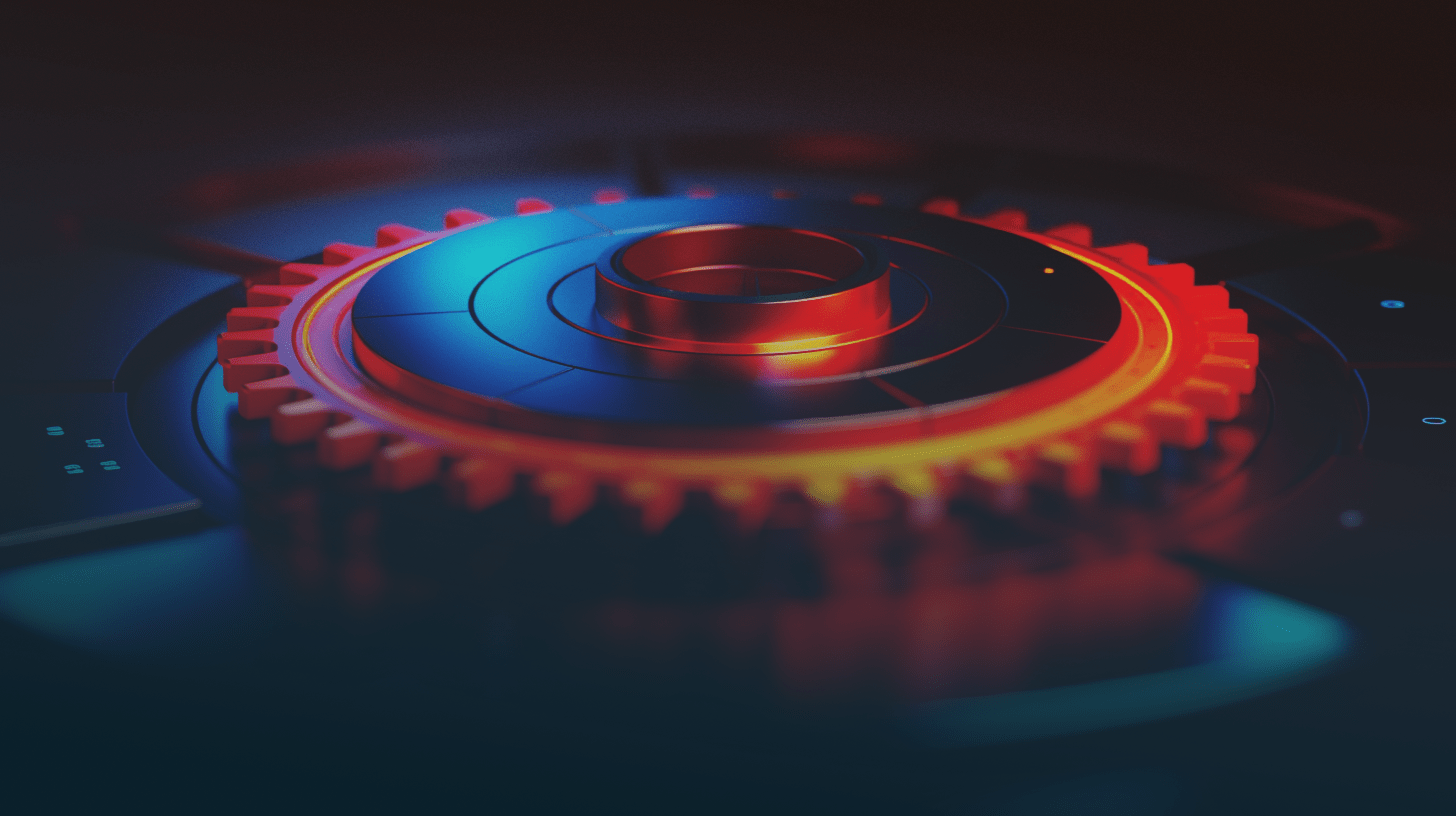
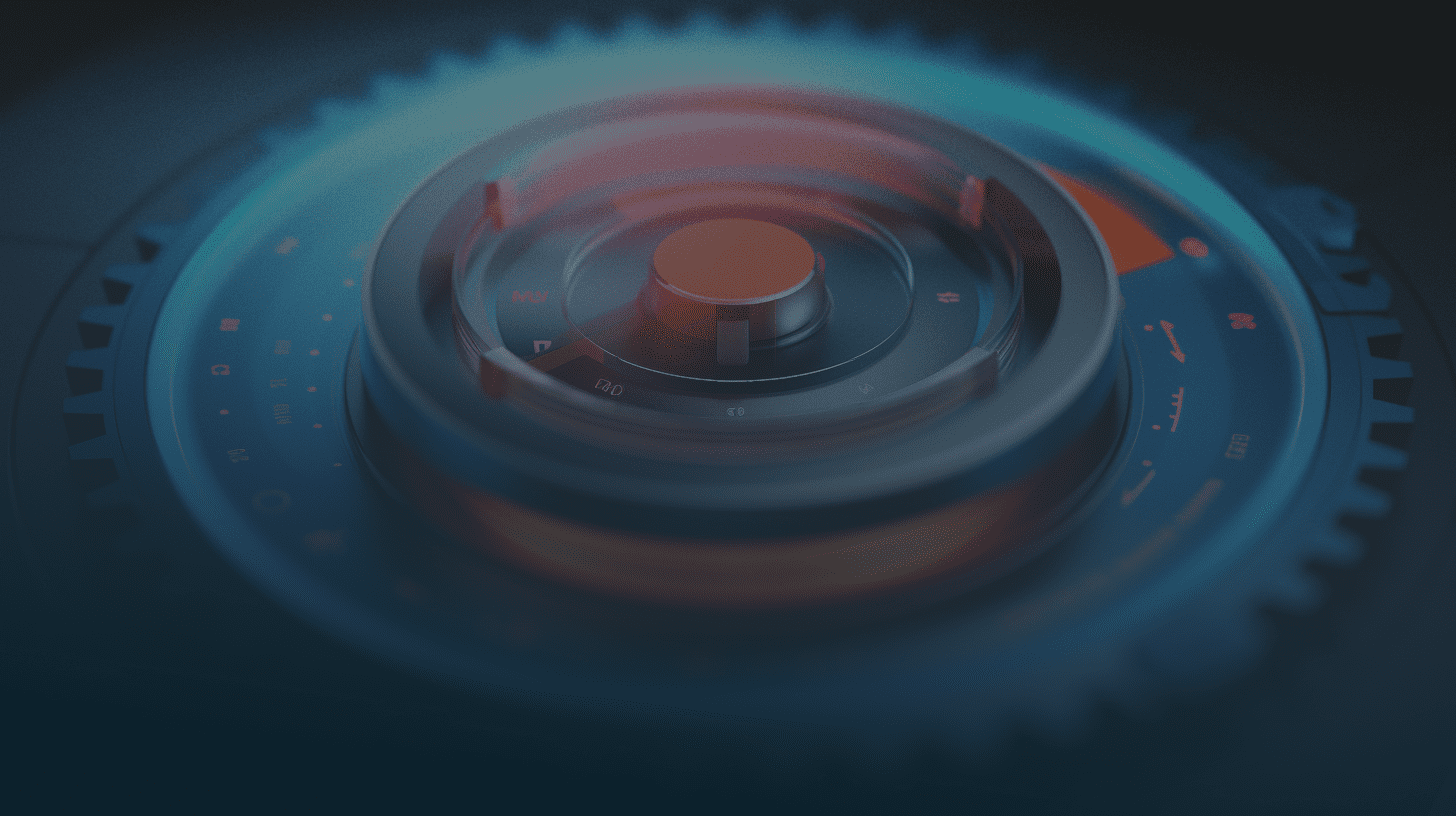
update responsiveness and bg

diff --git a/src/routes/components/HeroBanner.svelte b/src/routes/components/HeroBanner.svelte
@@ -4,14 +4,14 @@
   import Animate from "./Animate.svelte";
 </script>
 
-<div class="w-full pb-15 pt-40 md:pb-28 md:pt-44 bg-amber-100 text-white overflow-hidden z-0 bg-center bg-no-repeat bg-fixed bg-cover" style="background-image: url('{Render}');">
-  <div class="container max-w-5xl px-12 mx-auto relative pb-20">
+<div class="w-full pb-15 pt-44 md:pb-28 md:pt-44 bg-amber-100 text-white overflow-hidden z-0 bg-center bg-no-repeat bg-fixed bg-cover" style="background-image: url('{Render}');">
+  <div class="container max-w-5xl px-5 md:px-12 mx-auto relative pb-20">
     <div class="text-center">
       <div class="space-y-12">
         <div class="space-y-8 text-shadow-2xl shadow-amber-100/20">
           <Animate>
-            <div class="text-7xl md:text-8xl text-transparent font-display font-bold">
-              <span class="bg-clip-text bg-gradient-to-r from-pink-500 to-violet-500 text-shadow-4xl shadow-pink-500">
+            <div class="text-6xl md:text-8xl text-transparent font-display font-bold flex md:block justify-center">
+              <span class="bg-clip-text bg-gradient-to-r from-pink-500 to-violet-500 text-shadow-xl shadow-indigo-500/40">
                 Simplified Brightness Control
               </span>
             </div>

diff --git a/src/routes/components/Navbar.svelte b/src/routes/components/Navbar.svelte
@@ -9,7 +9,7 @@
 <svelte:window bind:scrollY={scrollTop} />
 
 <div
-	class="w-full overflow-hidden transition p-5 bg-black text-white bg-opacity-40 backdrop-blur-lg fixed top-0 z-50"
+	class="w-full overflow-hidden transition p-5 bg-black text-white bg-opacity-40 backdrop-blur-2xl fixed top-0 z-50"
 >
 	<div class="container mx-auto">
 		<div class="flex items-center justify-between flex-col md:flex-row space-y-4 md:space-y-0">

diff --git a/src/routes/components/Features.svelte b/src/routes/components/Features.svelte
@@ -23,7 +23,7 @@
 </script>
 
 <div class="bg-gray-950 text-white relative overflow-hidden">
-	<div class="container mx-auto space-y-12 py-24 px-12">
+	<div class="container mx-auto space-y-12 py-24 px-6 md:px-12">
 		<div class="relative z-10 py-24">
 			<Animate>
 				<div class="text-6xl font-display font-bold max-w-2xl mx-auto text-center px-8">
